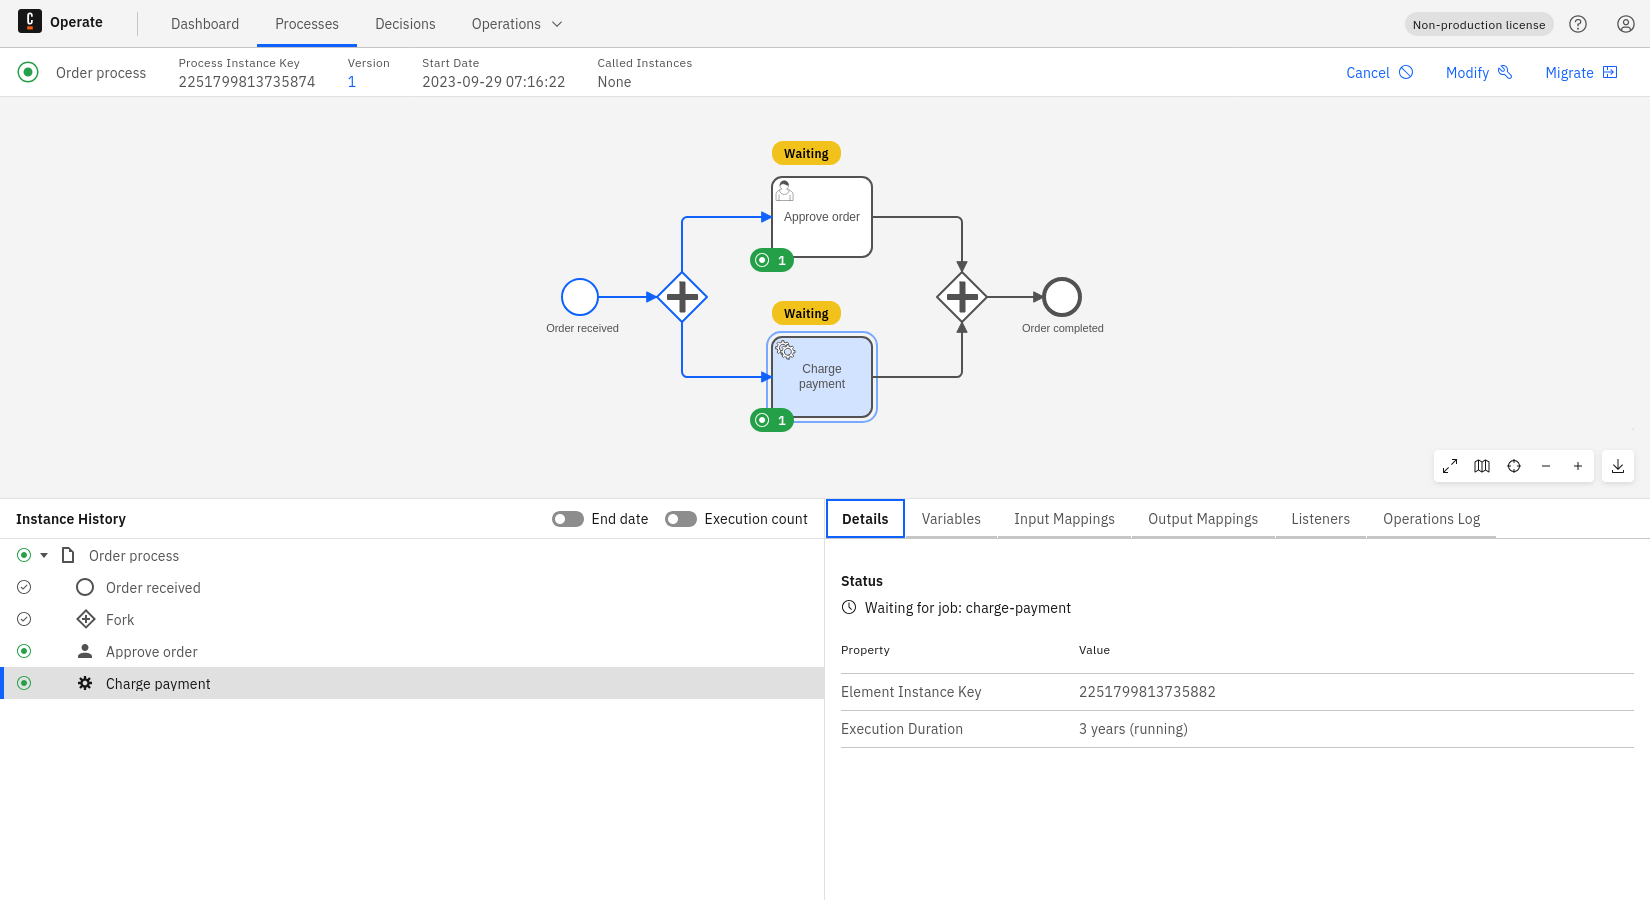
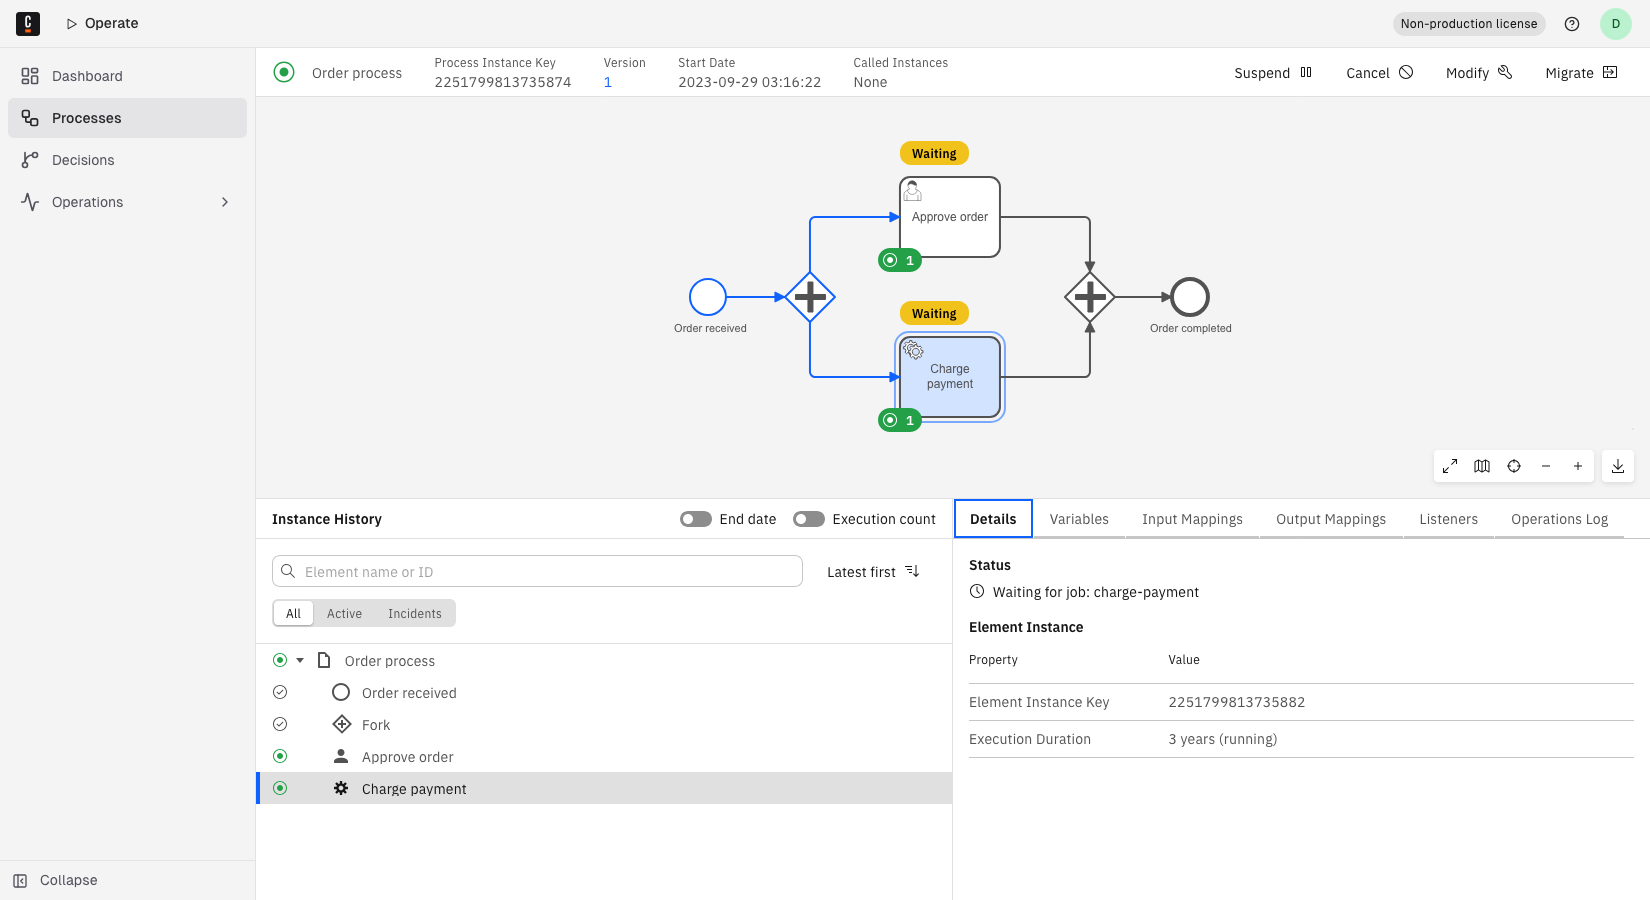
docs(operate): refresh screenshots for the new design system
Adds and refreshes Operate screenshots across the userguide and
overview pages to reflect the new Camunda Design System, which
Operate adopted for navigation and for buttons/inputs/checkboxes.

Captured against release-8.10.0-alpha5-rc3 in camunda/camunda, using
the repo's generate-screenshots Playwright automation where a spec
existed, and manual capture otherwise.

diff --git a/docs/components/operate/userguide/delete-resources.md b/docs/components/operate/userguide/delete-resources.md
@@ -19,8 +19,16 @@ Deleting a process definition permanently removes it and has the following effec
 To delete a process definition from the **Processes** page, take the following steps:
 
 1. In the **Filter** panel, select a specific process version by filtering by process name and version. For detailed guidance on using filters, see [filter process instances](./filter-process-instances.md). Make sure the selected process definition version has no running instances, otherwise it is not possible to delete a process definition. You can [cancel or resolve running process instances](/components/operate/userguide/basic-operate-navigation.md) from the process instances list or from the process instance detail page.
+
+![The Processes page filter panel, with arrows pointing at the Process Name and Process Version fields.](./img/delete-resources-process-filters.png)
+
 2. Click the **Delete** button at the top right.
+
+![The Processes page for a selected process, with an arrow pointing at the Delete link next to the Process ID.](./img/delete-resources-process-button.png)
+
 3. Confirm the delete operation by checking the checkbox and clicking **Delete**.
+
+![A confirmation modal for deleting a process definition, with a warning about the impact of deletion and a checkbox to confirm the deletion.](./img/delete-resources-process-modal.png)
 
 ## Delete decision definition
 
@@ -32,5 +40,13 @@ Deleting a decision definition will delete the DRD and will impact the following
   :::
 
 1. On the **Decisions** page, select a specific decision version by filtering by decision name and version. For detailed guidance on filtering, see [filter process instances](./filter-process-instances.md).
+
+![The Decisions page filter panel, with arrows pointing at the Decision Name and Decision Version fields.](./img/delete-resources-decision-filters.png)
+
 2. Click the **Delete** button at the top right.
+
+![A selected decision definition's page, with an arrow pointing at the Delete link next to the Decision ID.](./img/delete-resources-decision-button.png)
+
 3. Confirm the delete operation by checking the checkbox and clicking **Delete**.
+
+![A confirmation modal for deleting a decision definition (DRD), with a warning about the impact of deletion and a checkbox to confirm the deletion.](./img/delete-resources-decision-modal.png)

diff --git a/docs/components/operate/userguide/delete-finished-instances.md b/docs/components/operate/userguide/delete-finished-instances.md
@@ -28,6 +28,8 @@ To delete multiple process instances at once from the **Processes** page, take t
 4. Click the **Delete** button in the toolbar.
 5. Confirm the delete operation by clicking **Delete**.
 
+![The Processes page filtered to finished instances, with two rows selected and the batch action toolbar showing a Delete button.](./img/delete-finished-instances.png)
+
 ### Delete a single process instance from the Processes page
 
 To delete a single process instance from the **Processes** page, take the following steps:
@@ -37,12 +39,16 @@ To delete a single process instance from the **Processes** page, take the follow
 3. Click the **Delete** button on any process instance you want to delete.
 4. Confirm the delete operation by clicking **Delete**.
 
+![The Processes page filtered to finished instances, showing a Delete link on each row of the Process Instances table.](./img/delete-finished-instances-single-row.png)
+
 ### Delete a process instance from the instance detail page
 
 1. On the **Processes** page, in the **Filter** panel, apply the **Finished Instances** filter by checking the appropriate box. For detailed guidance on filtering, see [filter process instances](./filter-process-instances.md).
 2. Navigate to the instance detail page by clicking the **Process Instance Key** of the process instance you want to delete.
 3. In the page header, click the **Delete** button.
 4. Confirm the delete operation by clicking **Delete**.
+
+![A process instance detail page with a Delete link in the page header, next to the process instance's key, version, start date, end date, and called instances.](./img/delete-finished-instances-detail-page.png)
 
 ## Delete decision instances
 
@@ -55,3 +61,5 @@ Evaluated and failed decision instances can be batch deleted from the **Decision
 3. Select the decision instances you want to delete by checking the checkbox next to each one, or use the select-all checkbox to select all visible instances.
 4. Click the **Delete** button in the toolbar.
 5. Confirm the delete operation by clicking **Delete**.
+
+![The Decisions page with three decision instances selected and the batch action toolbar showing a Delete button.](./img/delete-finished-instances-decisions.png)

diff --git a/docs/components/operate/userguide/basic-operate-navigation.md b/docs/components/operate/userguide/basic-operate-navigation.md
@@ -28,6 +28,8 @@ The process instance page has three parts:
 - A process diagram showing the instance's current progress.
 - A bottom panel with tabs, including **Details**, **Incidents** (shown only when the instance has an incident), and **Variables**.
 
+![A process instance detail page, showing the header with the process instance's key, version, and state, the process diagram, and the bottom panel with Variables, Listeners, and Operations Log tabs.](./img/basic-operate-navigation.png)
+
 Click an element in the diagram to select it, then use the tabs in the bottom panel to inspect its details, incidents, and variables. In earlier versions, an element's details and incidents appeared in a metadata popover when you clicked it; the popover is now replaced by the **Details** and **Incidents** tabs. To visualize process instance performance, use [Optimize](/components/optimize/what-is-optimize.md).
 
 ## Navigate to a called process instance

diff --git a/docs/components/operate/userguide/resolve-incidents-update-variables.md b/docs/components/operate/userguide/resolve-incidents-update-variables.md
@@ -131,6 +131,8 @@ We’ll publish a message that will be correlated with the instance, so we can a
 
 In the Operate interface, you should now observe the process instance has an [incident](/components/concepts/incidents.md), which means there’s a problem with process execution that must be fixed before the process instance can progress to the next step.
 
+![A process instance with one incident shown in the header, the Order Value? gateway marked with an incident indicator in the diagram, and the Incidents tab open in the bottom panel listing the extract value error.](./img/resolve-incidents-update-variables.png)
+
 ## Diagnosing and resolving incidents
 
 Operate provides tools for diagnosing and resolving incidents. Let’s go through incident diagnosis and resolution step by step.

diff --git a/docs/components/operate/userguide/monitor-batch-operations.md b/docs/components/operate/userguide/monitor-batch-operations.md
@@ -15,6 +15,8 @@ To follow the steps in this guide, you must be [authorized to view running and c
 1. In the top navigation, click **Operations > Batch operations**. This opens the [**Batch Operations** page](../overview/batch-operations-overview.md).
 2. To see the details of a particular batch operation, click the operation in the table. This opens the [batch operation details page](../overview/batch-operation-details-overview.md).
 
+![The Batch Operations page, listing batch operations with their operation type, batch state, items, actor, and start date.](./img/monitor-batch-operations.png)
+
 ## View failure reasons
 
 On the batch operation details page, expand a failed item row to view the failure reason.

diff --git a/docs/components/operate/userguide/process-instance-migration.md b/docs/components/operate/userguide/process-instance-migration.md
@@ -19,6 +19,8 @@ Before you try to migrate process instances, learn about the [limitations](/comp
 
 The migration view features three areas: the source process diagram (top left), the target process diagram (top right) and the element mapping (bottom panel).
 
+![The migration view showing the source and target process diagrams at the top, and the source-to-target element mapping table below.](./img/process-instance-migration.png)
+
 ## Select a target process version
 
 Above the target process diagram, enter a target process into the **Target** box, and select a version from the dropdown. This will be the process version where all selected process instances are migrated to.

diff --git a/docs/components/operate/overview/batch-operation-details-overview.md b/docs/components/operate/overview/batch-operation-details-overview.md
@@ -14,6 +14,8 @@ On the batch operation's details page, you'll find:
 - A table with details about the items in the batch operation.
 - An option to take action on the batch operation. This is only available for some batch operations, depending on the state.
 
+![A batch operation details page showing the summary header (batch state Completed, summary of items 3, start date, end date, actor) above the items table listing three process instance keys with their batch state.](./img/batch-operation-details-overview.png)
+
 ## Summary header
 
 The summary header includes the following details about the batch operation:

diff --git a/docs/components/operate/userguide/selections-operations.md b/docs/components/operate/userguide/selections-operations.md
@@ -23,6 +23,8 @@ To create a selection and apply an operation, take the following steps:
 1. On the **Processes** page, in the **Process Instances** table, check the box next to the process instances you'd like to include.
 2. In the table header, select the operation you want to apply.
 
+![Three process instances selected in the Process Instances table, with the batch action toolbar visible above the table.](./img/selections-operations.png)
+
 ## Next steps
 
 - [Monitor the batch operation](./monitor-batch-operations.md).

diff --git a/docs/components/operate/userguide/manage-batch-operation.md b/docs/components/operate/userguide/manage-batch-operation.md
@@ -27,3 +27,5 @@ To take an action on a batch operation:
 1. On the **Processes** page, above the process diagram, click **View batch operations**.
 2. From the **Batch Operations** page, click the operation you want to manage.
 3. On the batch operation details page, on the right side of the page header, click an action, if available.
+
+![A batch operation details page for an Active batch operation, with a Suspend button and an overflow menu available in the page header.](./img/manage-batch-operation.png)

diff --git a/docs/components/operate/userguide/process-instance-modification.md b/docs/components/operate/userguide/process-instance-modification.md
@@ -40,6 +40,8 @@ To enter modification mode:
 
 The UI will change when you enter modification mode, including a blue banner at the top and two buttons for applying or discarding modifications at the bottom.
 
+![A process instance in modification mode, indicated by the blue "Process Instance Modification Mode" banner at the top of the page.](./img/process-instance-modification.png)
+
 ## Cancel all running tokens on an element
 
 To cancel all running tokens on an element, take the following steps:

diff --git a/docs/components/operate/overview/batch-operations-overview.md b/docs/components/operate/overview/batch-operations-overview.md
@@ -10,6 +10,8 @@ A high-level overview of the **Batch Operations** page in Camunda 8 Operate.
 
 Use the **Batch Operations** page to monitor all batch operations performed across any process instance.
 
+![The Batch Operations page, listing operations with their operation type, batch state, items, actor, and start date.](./img/batch-operations-overview.png)
+
 ## Batch operations table
 
 In the table, you can review these details about each batch operation:
